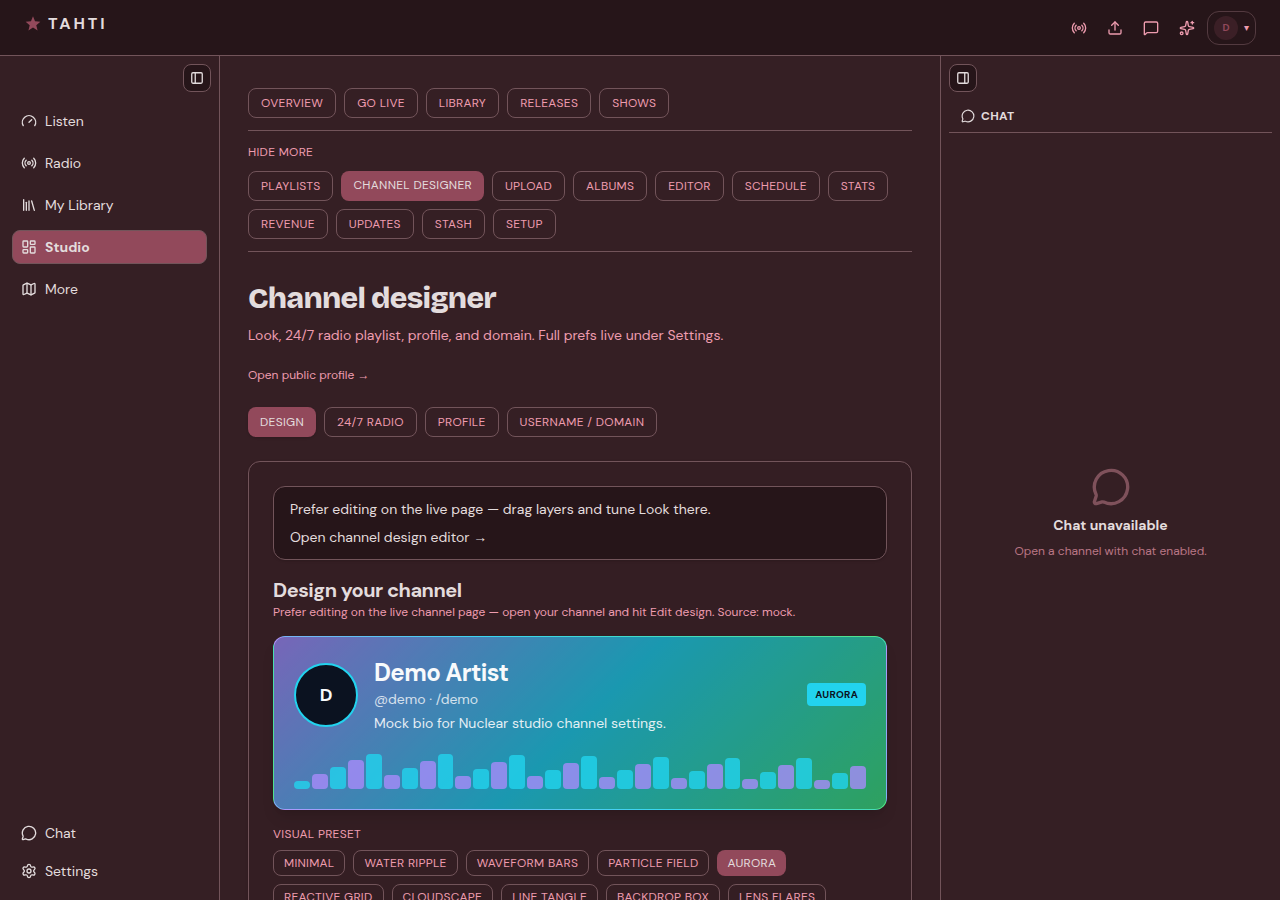
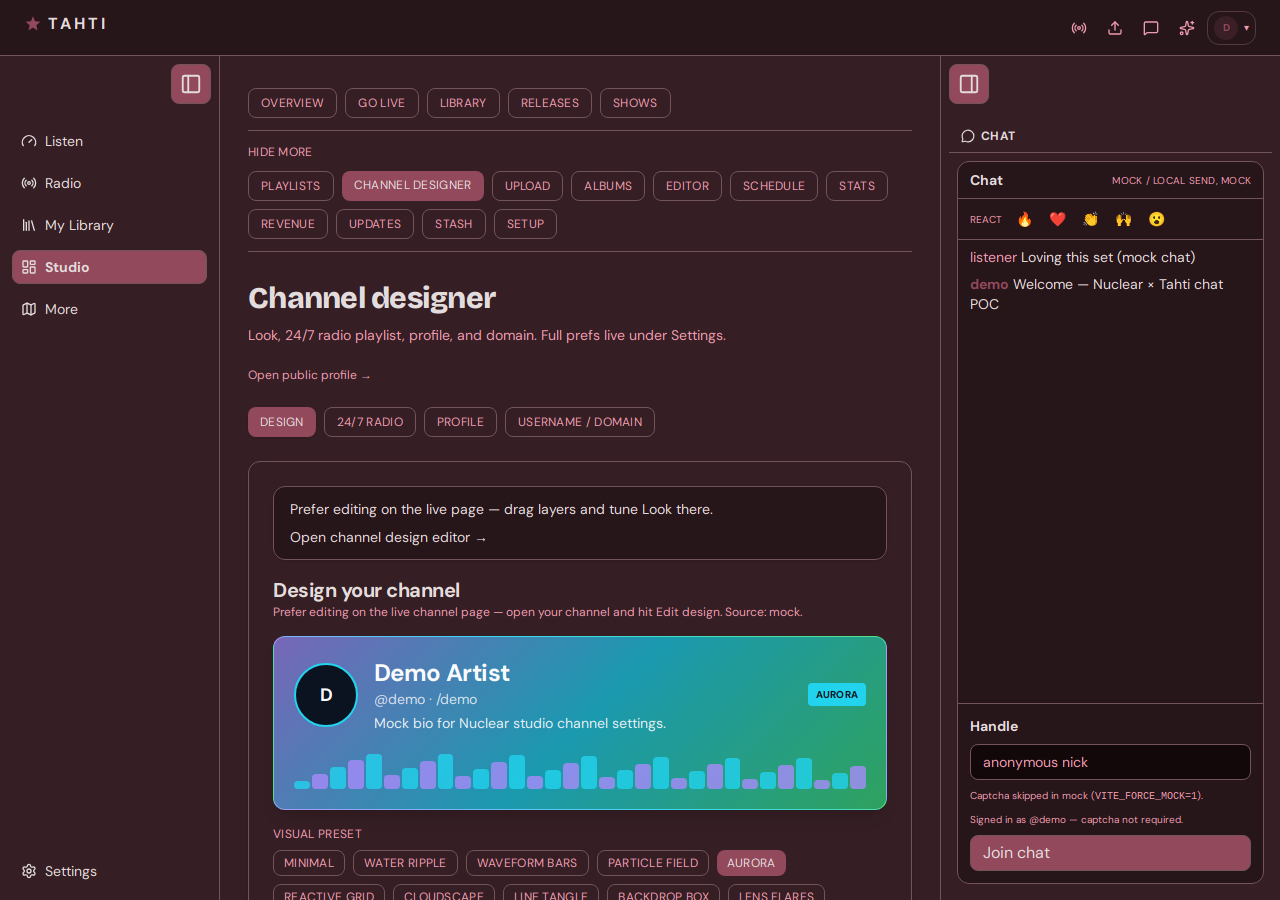
Map every prod screen to Nuclear shots and drop the spare Chat nav control.
Add SCREEN-ATLAS plus atlas capture script with ~40 Nuclear screenshots; right-rail toggle remains the chat show/hide path.

diff --git a/packages/tahti-web/src/components/AppShell.tsx b/packages/tahti-web/src/components/AppShell.tsx
@@ -4,7 +4,6 @@ import {
   LayoutDashboardIcon,
   LibraryIcon,
   MapIcon,
-  MessageCircleIcon,
   RadioIcon,
   SettingsIcon,
 } from 'lucide-react';
@@ -147,11 +146,6 @@ export function AppShell() {
                   />
                 </div>
                 <div className="mt-auto flex flex-col gap-1 p-1">
-                  <SidebarNavigationItem
-                    icon={<MessageCircleIcon size={16} />}
-                    label="Chat"
-                    onClick={toggleRight}
-                  />
                   <SidebarNavigationItem
                     icon={<SettingsIcon size={16} />}
                     label="Settings"

diff --git a/packages/tahti-web/docs/SCREEN-ATLAS.md b/packages/tahti-web/docs/SCREEN-ATLAS.md
@@ -1,0 +1,159 @@
+# Screen atlas — app.tahti.live → Nuclear UI
+
+Inventory of production (`apps/web` / app.tahti.live) surfaces vs Nuclear (`@nuclearplayer/tahti-web` / beta.tahti.live), with screenshot status.
+
+**Legend**
+
+| Status | Meaning |
+|--------|---------|
+| **shot** | Nuclear UI exists + screenshot under `docs/redesign-shots/` |
+| **ui-no-shot** | Nuclear route exists; screenshot missing or stale |
+| **partial** | Nuclear covers part of prod (missing subflows) |
+| **missing** | No Nuclear UI yet |
+| **out-of-scope** | Explicitly not in Nuclear cutover (e.g. marketing `website/`, admin until Phase later) |
+
+Screenshots are Nuclear UI only (mock or beta). Prod is the source of *what must exist*; Nuclear is the visual target.
+
+---
+
+## 1. Anonymous / public
+
+| Prod path | Nuclear path | Shot | Status |
+|-----------|--------------|------|--------|
+| `/` (marketing) | — (stays `website/` / Phase 0) | — | out-of-scope |
+| `/listen` | `/` · `/listen` | `listen-home-v1.png` | shot |
+| `/radio` | `/radio` | `listen-radio-v1.png` | ui-no-shot → capture |
+| `/radio/show/[channelSlug]` | `/channel/$slug` (radio channel) | — | partial |
+| `/c/[slug]` | `/channel/$slug` · `/c/$slug` | `listen-channel-v1.png` | shot |
+| `/u/[username]` | `/u/$username` | `listen-artist-v1.png` | ui-no-shot → capture |
+| `/u/[username]/c/[slug]` | `/u/$username/c/$slug` | — | ui-no-shot |
+| `/u/[username]/subscribe` | `/subscribe/$username` · alias | `subscribe-v1.png` | shot |
+| `/u/[username]/green-room` | — | — | missing |
+| `/r/[slug]` | `/r/$slug` | `listen-smartlink-v1.png` | ui-no-shot → capture |
+| `/v/[slug]` venue public | — | — | missing |
+| `/venues` | `/venues` | `venues-v1.png` | ui-no-shot → capture |
+| `/venues/register` | `/venues/register` | `venues-register-v1.png` | ui-no-shot → capture |
+| `/embed/c/[slug]` | `/embed/c/$slug` | `embed-channel-v1.png` | ui-no-shot → capture |
+| `/embed/r/[id]` | `/embed/r/$id` | — | ui-no-shot |
+| `/embed/col/[slug]` | `/embed/col/$slug` | — | ui-no-shot |
+| `/login` | `/login` | `auth-login-v1.png` | ui-no-shot → capture |
+| `/join` | `/join` | `auth-join-v1.png` | ui-no-shot → capture |
+| `/verify` | `/verify` | — | ui-no-shot |
+| `/signup` · `/signup/profile` · `/signup/broadcast` | `/join` (+ gaps) | — | partial |
+| `/signup/payment` | `/signup/payment` | — | ui-no-shot |
+| `/setup-password` | — | — | missing |
+| `/apply` | — | — | missing |
+| `/help` | `/help` | `help-v1.png` | ui-no-shot → capture |
+| `/help/*` (for-artists, broadcast, …) | `/help/$slug` | — | partial |
+| `/help/support` | — | — | missing |
+| `/status` | `/status` | — | ui-no-shot |
+| `/transparency` (+ methodology) | `/transparency` | — | partial |
+| `/governance` (+ venues, feature-requests) | `/governance` | — | partial |
+| `/about` `/terms` `/privacy` `/agpl` | same | — | ui-no-shot |
+| `/for-artists` `/how-it-works` | — | — | missing (info marketing) |
+| `/feed` | — | — | missing |
+
+---
+
+## 2. Authenticated listener
+
+| Prod path | Nuclear path | Shot | Status |
+|-----------|--------------|------|--------|
+| Library / follows (dashboard listener bits) | `/library` | `listener-library-v1.png` | ui-no-shot → capture |
+| History | `/library/history` · `/history` | — | ui-no-shot |
+| Favorites | `/favorites` | — | ui-no-shot |
+| DMs `/dashboard/messages` | `/messages` · `/library/messages` | `listener-messages-v1.png` | ui-no-shot → capture |
+| Account settings | `/settings/*` · `/account` | `settings-v1.png` | ui-no-shot → capture |
+| Sources OAuth | `/sources` | — | partial |
+| Chat (channel) | right rail + `/chat/$slug` | — | partial (no left Chat button; use rail toggle) |
+| Themes | `/themes` | — | ui-no-shot |
+
+---
+
+## 3. Artist studio (prod `/dashboard/*`)
+
+| Prod path | Nuclear path | Shot | Status |
+|-----------|--------------|------|--------|
+| `/dashboard` | `/studio` | `studio-home-v1.png` | shot |
+| `/dashboard/broadcast` | `/studio/go-live` | `studio-go-live-v1.png` | shot |
+| `/dashboard/archive` | `/studio/archive` | `studio-archive-v1.png` | shot |
+| `/dashboard/archive/[id]` | `/studio/archive/$id` | `studio-archive-item-v1.png` | shot |
+| `/dashboard/archive/[id]/editor` | `/studio/archive/$id/editor` | — | ui-no-shot |
+| `/dashboard/upload` (+ imports, from-broadcast) | `/studio/upload` | `studio-upload-v1.png` | partial (imports thinner) |
+| `/dashboard/releases` | `/studio/releases` | `studio-releases-v1.png` | shot |
+| `/dashboard/releases/[id]` | `/studio/releases/$id` | `studio-release-detail-v1.png` | ui-no-shot → capture |
+| `/dashboard/collections` | `/studio/collections` | `studio-collections-v1.png` | shot |
+| `/dashboard/collections/[slug]` · new | `/studio/collections/$slug` | — | ui-no-shot |
+| `/dashboard/editor` | `/studio/editor` | `studio-editor-v1.png` | ui-no-shot → capture |
+| `/dashboard/editor/[id]` | `/studio/editor/$id` | — | ui-no-shot |
+| `/dashboard/schedule` | `/studio/schedule` | `studio-schedule-v1.png` | shot |
+| `/dashboard/stats` | `/studio/stats` | `studio-stats-v1.png` | shot |
+| `/dashboard/stats/detail` | `/studio/stats/detail` | — | ui-no-shot |
+| `/dashboard/insights/*` | — | — | missing |
+| `/dashboard/channel` (+ edit, gallery, text) | `/studio/channel` | `studio-channel-v1.png` | partial |
+| `/dashboard/setup-channel` | `/studio/setup-channel` | `studio-setup-channel-v1.png` | ui-no-shot → capture |
+| Shows / episodes (prod events-ish) | `/studio/shows` · episodes | `studio-shows-v1.png` | partial (series localStorage) |
+| Playlists | `/studio/playlists` | `studio-playlists-v1.png` | shot |
+| `/dashboard/posts` · newsletter | `/studio/updates` | `studio-updates-v1.png` | ui-no-shot → capture |
+| `/dashboard/revenue` | `/studio/revenue` | `studio-revenue-v1.png` | ui-no-shot → capture |
+| `/dashboard/distribution` | `/studio/distribution` | `studio-distribution-v1.png` | ui-no-shot → capture |
+| `/dashboard/stash` | `/studio/stash` | `studio-stash-v1.png` | ui-no-shot → capture |
+| `/dashboard/tahti-radio-slots` | — | — | missing |
+| `/dashboard/moderate/[slug]` | — | — | missing |
+| `/dashboard/embeds` | embeds routes | — | partial |
+| `/dashboard/venues` | `/venues` | — | partial |
+| `/dashboard/events` | `/studio/shows` | — | partial |
+| Settings fan-subs, media, moderators, multistream, presskit, domain, discovery, notifications, comments, announcements, connections, green-room, artist-info, members, account | `/settings/*` panels | — | partial |
+| `/dashboard/upload/import/*` | — | — | missing / thin |
+
+---
+
+## 4. Admin (`/admin/*`) — Nuclear **not started**
+
+All **missing** Nuclear UI (keep Next admin until cutover Phase). No Nuclear screenshots.
+
+| Prod | Notes |
+|------|--------|
+| `/admin` `/admin/dashboard` | Board home |
+| `/admin/beta` | Applications |
+| `/admin/users` `/admin/users/[id]` | |
+| `/admin/radio` `/admin/radio-submissions` | |
+| `/admin/news` `/admin/tahti-selects` `/admin/streams` | |
+| `/admin/support` `/admin/support/[id]` | |
+| `/admin/top-lists` `/admin/announcements` | |
+| `/admin/storage` `/admin/storage/[userId]` `/admin/files` | R2 quota UI |
+| `/admin/content-reports` | |
+| `/admin/financial` (+ ledger, fansubs, legacy-members) | |
+| `/admin/governance` (+ audit, resolutions, report) | |
+| `/admin/feature-requests` `/admin/grants` `/admin/agm` | |
+| `/admin/settings/vendors` `/admin/status` | |
+| `/admin/channels/[slug]/*` | Archive/programme ops |
+| i18n languages + CSV | Phase 0 approved, not built |
+
+---
+
+## 5. Coverage summary (after atlas capture 2026-08-13)
+
+| Audience | Prod screens (approx) | Nuclear UI | Nuclear shots on disk |
+|----------|----------------------|------------|------------------------|
+| Anonymous / public | ~35 | ~25 | ~18 (`listen-*`, auth, help, venues, embed, legal…) |
+| Listener | ~10 | ~8 | library, messages, settings, sources |
+| Artist studio | ~45 | ~30 | **~22** studio-* PNGs including updates/revenue/stash/distribution |
+| Admin | ~25+ | **0** | **0** — no Nuclear admin |
+
+**Still no Nuclear UI (concrete gaps):** green-room, venue public `/v/:slug`, apply, setup-password, help/support form, feed, info marketing pages, radio slots UI, channel moderate, upload import suite depth, insights, full settings subpages parity, **entire `/admin/*`**.
+
+**Auth note:** `/login` and `/join` open the Nuclear auth **dialog** over Listen (not separate full pages) — shots `auth-login-v1.png` / `auth-join-v1.png` reflect that.
+
+---
+
+## 6. Capture
+
+```bash
+# from packages/tahti-web — mock Vite on :5190
+VITE_FORCE_MOCK=1 pnpm exec vite --port 5190 --strictPort
+# other terminal
+REDESIGN_BASE_URL=http://127.0.0.1:5190 node scripts/capture-atlas-shots.mjs
+```
+
+Update this file’s Shot column when new PNGs land.

diff --git a/packages/tahti-web/README.md b/packages/tahti-web/README.md
@@ -43,7 +43,7 @@ It is not a second backend. Auth, HLS, Stripe fan-subs, DMs, and studio mutation
 
 *Playlists.*
 
-Full set: [`docs/redesign-shots/`](./docs/redesign-shots/). Captures for docs can use mock Vite; beta is democked against production.
+Full set: [`docs/redesign-shots/`](./docs/redesign-shots/). **Prod → Nuclear screen matrix** (anonymous → admin): [`docs/SCREEN-ATLAS.md`](./docs/SCREEN-ATLAS.md). Captures: `node scripts/capture-atlas-shots.mjs` against mock Vite.
 
 ## Run
 
